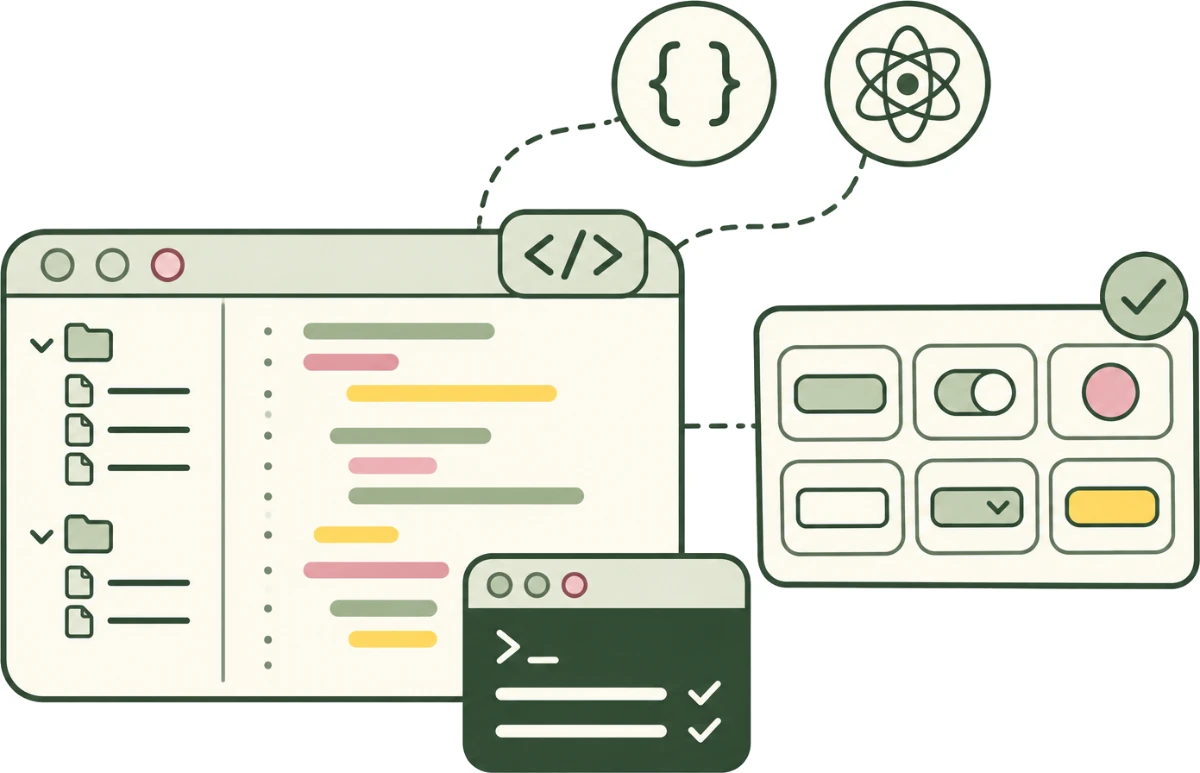
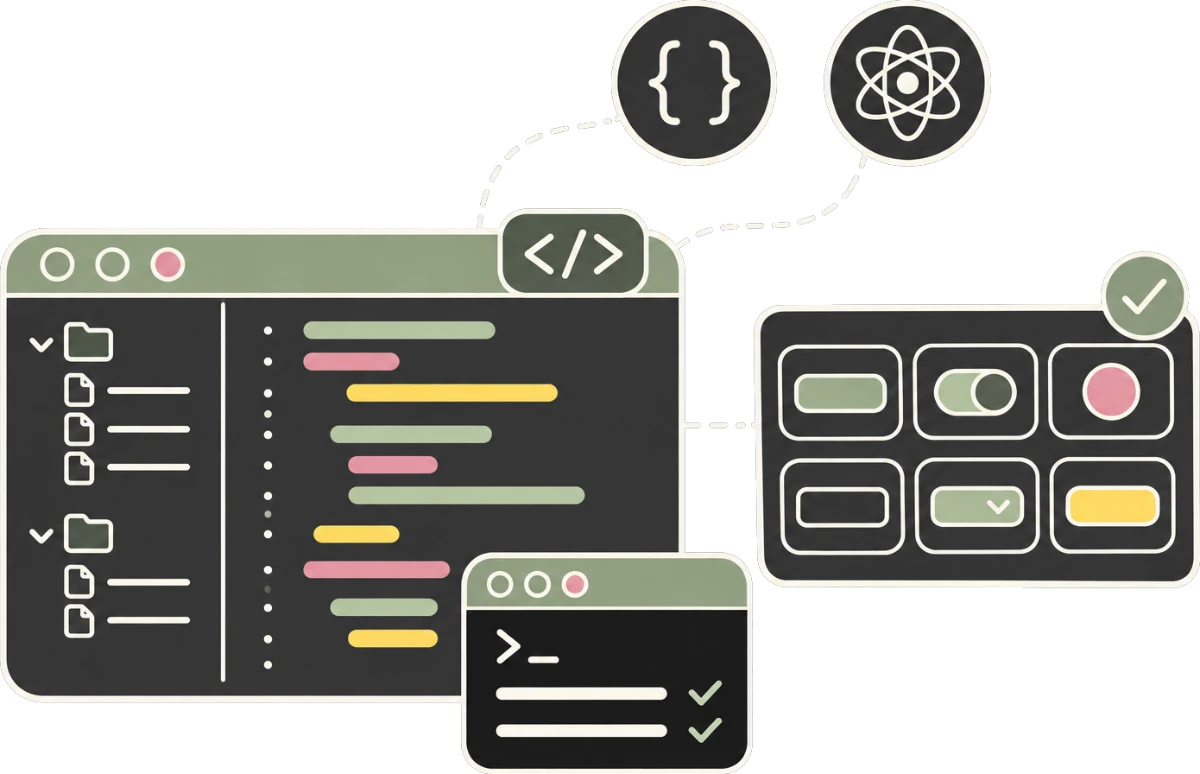
Agent Review: the build's card is charcoal, with smaller type
The card takes the charcoal ground so it reads as code, with a dark version
of the drawing on a transparent ground, its paragraph at 14px, and the link
in the sage made for charcoal.

diff --git a/lab/agent-review.css b/lab/agent-review.css
@@ -378,19 +378,34 @@
    is one column, in that order. */
 .arc-started { display: grid; gap: var(--space-2xl); }
 .arc-started .arc-head { margin-bottom: var(--space-md); }
+/* The build's card is charcoal, so it reads as code (Adam, 2026-11-03), and
+   its type is a step smaller than the column beside it. The drawing is the
+   dark version, on a transparent ground, so the card's fill shows through. */
 .arc-started-build {
+  --color-focus-ring: var(--color-accent-on-dark);
   align-self: start;
   padding: var(--space-lg) var(--space-md);
-  background: var(--figure-card);
-  border: 1px solid var(--rule-card);
+  background: var(--color-charcoal);
   border-radius: var(--radius-xl);
   box-shadow: var(--shadow-card);
 }
 @media (min-width: 640px) { .arc-started-build { padding: var(--space-2xl); } }
 .arc-started-art { margin: 0 auto var(--space-xl); max-width: 80%; }
-/* The drawing is on opaque white, and multiply lets the card's fill stand in
-   for it, so no white box sits on the warm card. */
-.arc-started-art img { display: block; width: 100%; height: auto; mix-blend-mode: multiply; }
+.arc-started-art img { display: block; width: 100%; height: auto; }
+.case-section .arc-started-build > p {
+  margin-bottom: 0;
+  font-size: var(--text-sm);
+  color: var(--ink-on-dark);
+}
+.case-section .arc-started-build > p strong { color: var(--ink-on-dark); }
+.case-section .arc-measure.arc-started-build > p:not([class]) a {
+  color: var(--color-accent-on-dark);
+  text-decoration-color: currentColor;
+}
+.case-section .arc-measure.arc-started-build > p:not([class]) a:focus-visible { color: var(--ink-on-dark); }
+@media (hover: hover) and (pointer: fine) {
+  .case-section .arc-measure.arc-started-build > p:not([class]) a:hover { color: var(--ink-on-dark); }
+}
 @media (min-width: 64rem) {
   .arc-started {
     grid-template-columns: repeat(2, minmax(0, 1fr));

diff --git a/lab/agent-review.html b/lab/agent-review.html
@@ -102,7 +102,7 @@
   <link rel="stylesheet" href="../read-aloud.css?v=7" />
   <link rel="stylesheet" href="../reveal.css?v=2" />
   <link rel="stylesheet" href="relay-screen.css?v=3" />
-  <link rel="stylesheet" href="agent-review.css?v=115" />
+  <link rel="stylesheet" href="agent-review.css?v=116" />
   <script src="../site-nav.js?v=20260906a" defer></script>
   <script src="../read-aloud.js?v=4" defer></script>
   <script src="relay-screen.js?v=1" defer></script>
@@ -335,7 +335,7 @@
         </div>
         <div class="arc-measure arc-started-build">
           <figure class="arc-started-art">
-            <img src="../img/lab/agent-review-dev-tools.webp" width="1200" height="773" loading="lazy" decoding="async"
+            <img src="../img/lab/agent-review-dev-tools.webp?v=2" width="1200" height="774" loading="lazy" decoding="async"
                  alt="A code editor with a file tree and highlighted code, a terminal with two checked lines of output, and a checked grid of interface components, with curly braces and an atom symbol joined to the editor by dashed lines." />
           </figure>
           <p><strong>I built Agent Review myself, in code.</strong> It&rsquo;s a React and TypeScript app with its own design system: 14 components and 317 Storybook stories, each a tested state, checked with axe and Playwright. I worked in the repository with Claude Code, from the terminal. <a href="#the-build">How it&rsquo;s built</a></p>
